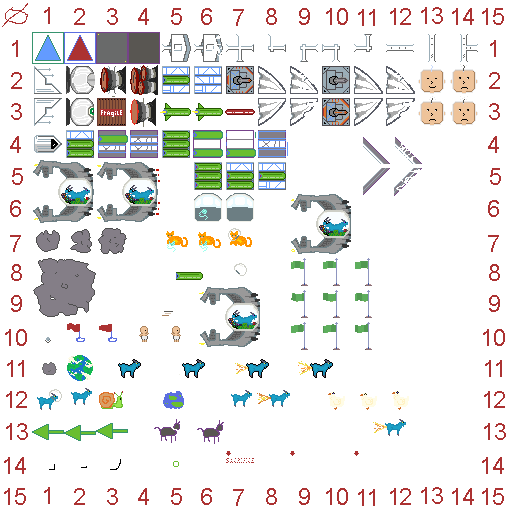
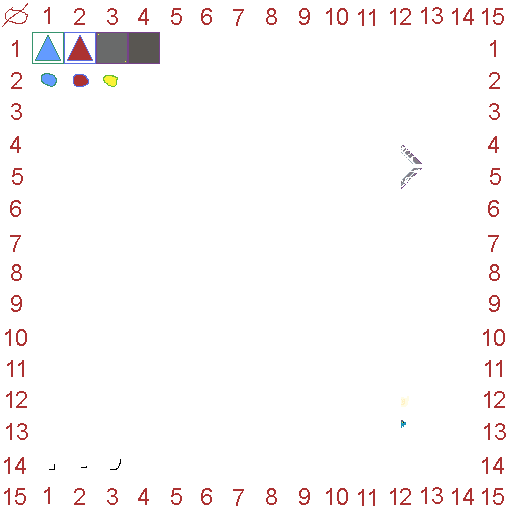
basic power pellet

diff --git a/src/ludumDare44/actors/powerPellets.ts b/src/ludumDare44/actors/powerPellets.ts
@@ -1,0 +1,90 @@
+import { _ } from 'engine/importsEngine'
+import * as spriteUtil from 'engine/anim/spriteUtil'
+import * as smoothMoves from 'engine/anim/smoothMover'
+import { getContext } from '../GameContext'
+import * as log from '../../engine/log'
+
+import * as anim from '../../engine/anim/anim'
+import * as chroma from 'chroma-js'
+import { consts } from './consts'
+import { enemyShipAi, IEnemyShipAi } from './enemyShipAi'
+import { IActor, actors, IActorMeta } from './actors'
+import { smashedShipParts } from './smashedShipParts'
+import { background } from './background'
+
+const meta: IActorMeta = {
+  name: 'powerPellet',
+}
+
+export interface IPowerPellet extends IActor {
+  anim: anim.IAnim
+  bx: number
+  by: number
+  isDead: boolean
+}
+
+let items: IPowerPellet[] = []
+function getAll() {
+  return items
+}
+
+function create(bx, by) {
+  log.x('create', meta.name)
+  let ctx = getContext()
+  let cv = ctx.getCameraView()
+  let item: IPowerPellet = {
+    anim: anim.create(),
+    bx: bx,
+    by: by,
+    isDead: false,
+  }
+
+  let frame = spriteUtil.frame32(2, 3)
+  let sprite = ctx.createSprite('ship-001', frame, 0.5, 0.5, 1)
+  item.anim.sprite = sprite
+
+  ctx.layerAbove.addChild(sprite)
+
+  items.push(item)
+  return item
+}
+
+function updateAll(elapsedTimeSec: number) {
+  let ctx = getContext()
+  let cv = ctx.getCameraView()
+
+  _.forEach(items, (c) => {
+    c.anim.sprite.x = c.bx * consts.blockSize
+    c.anim.sprite.y = c.by * consts.blockSize
+
+    let t = background.getAt(c.bx, c.by)
+    if (!t || t.isDead) {
+      eat(c)
+    }
+  })
+
+  removeDead()
+}
+
+function eat(c: IPowerPellet) {
+  if (c.isDead) {
+    return false
+  }
+  c.isDead = true
+  smashedShipParts.create(c.anim.sprite)
+}
+
+function removeDead() {
+  actors.removeDead(meta, items, (c) => {
+    let ctx = getContext()
+    ctx.layerAbove.removeChild(c.anim.sprite)
+  })
+}
+
+export const powerPellets = {
+  meta,
+  getAll,
+  create,
+  updateAll,
+  eat,
+}

diff --git a/src/ludumDare44/actors/enemyShips.ts b/src/ludumDare44/actors/enemyShips.ts
@@ -11,6 +11,7 @@ import { enemyShipAi, IEnemyShipAi } from './enemyShipAi'
 import { IActor, actors, IActorMeta } from './actors'
 import { smashedShipParts } from './smashedShipParts'
 import { background } from './background'
+import { powerPellets } from './powerPellets'
 
 const meta: IActorMeta = {
   name: 'enemyShip',
@@ -69,7 +70,7 @@ function create() {
   item.by = _.random(0, consts.gridHeight - 1)
   item.dir = _.random(0, 4 - 1)
 
-  let frame = spriteUtil.frame32(1, 1)
+  let frame = spriteUtil.frame32(1, 2)
   let sprite = ctx.createSprite('ship-001', frame, 0.5, 0.5, 1)
   item.anim.sprite = sprite
 
@@ -135,6 +136,17 @@ function moveStep() {
         explode(c)
       }
     })
+
+    if (c.isDead) {
+      return
+    }
+
+    // Check for hit power pellet
+    _.forEach(powerPellets.getAll(), (d) => {
+      if (!d.isDead && d.bx === c.bx && d.by === c.by) {
+        powerPellets.eat(d)
+      }
+    })
   })
 }
 
@@ -144,6 +156,7 @@ function explode(c: IEnemyShip) {
   }
 
   smashedShipParts.create(c.anim.sprite)
+  powerPellets.create(c.bx, c.by)
 
   c.isDead = true
 }

diff --git a/src/ludumDare44/GameContext.ts b/src/ludumDare44/GameContext.ts
@@ -18,6 +18,7 @@ import * as uiMode from './ui/uiMode'
 import { enemyShips } from './actors/enemyShips'
 import { background } from './actors/background'
 import { smashedShipParts } from './actors/smashedShipParts'
+import { powerPellets } from './actors/powerPellets'
 
 let final = false
 export function getIsFinal() {
@@ -238,5 +239,6 @@ export class GameContext {
     enemyShips.updateAll(elapsedTimeSec)
     background.updateAll(elapsedTimeSec)
     smashedShipParts.updateAll(elapsedTimeSec)
+    powerPellets.updateAll(elapsedTimeSec)
   }
 }
